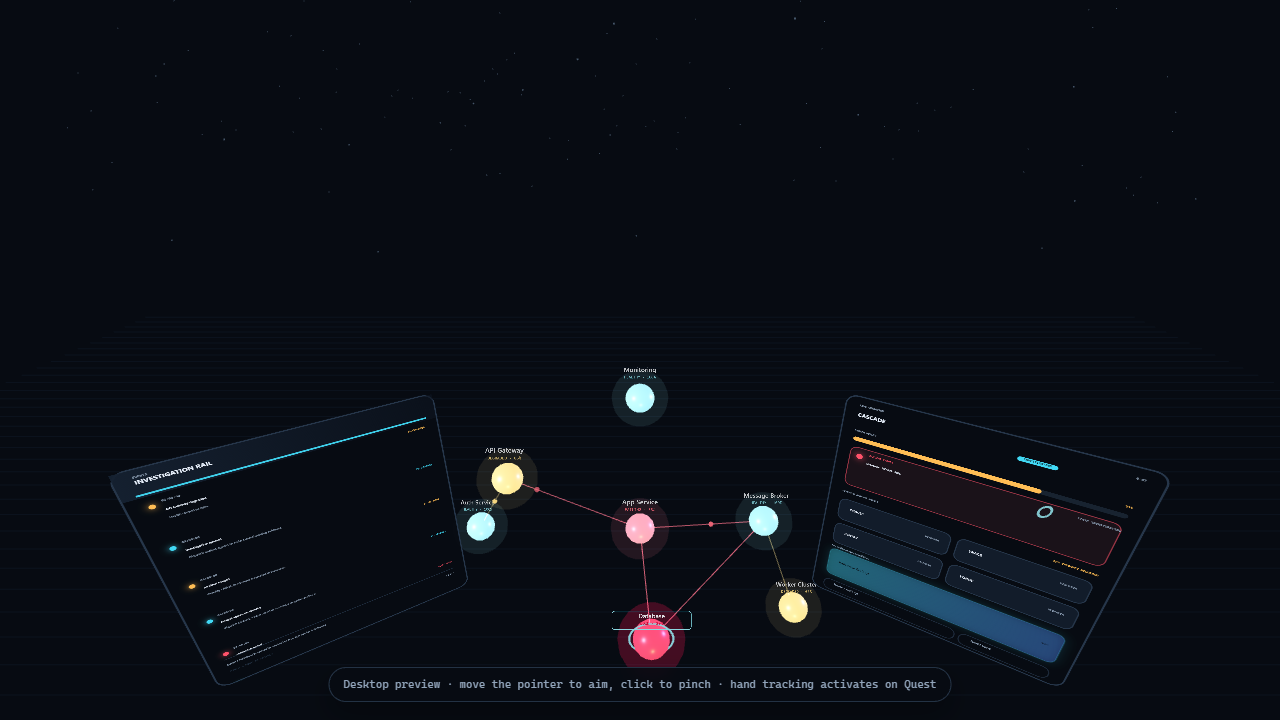
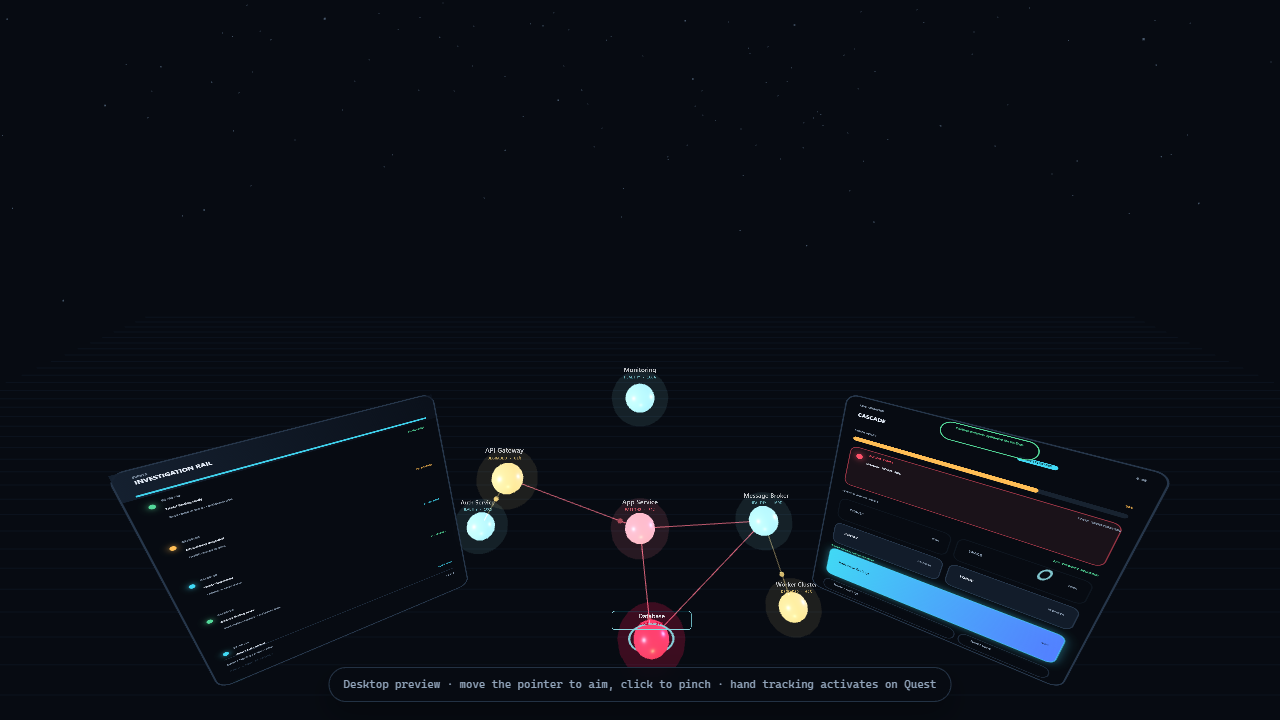
[ai-gen] fix(web): toast no longer blanks the workspace panels; full journey verified headlessly
Bug: drawToastOverlay() re-drew the action panel with drawToast() alone, blanking the incident UI for 2.8s whenever any toast fired. Fix: toast drawn on top of full screens inside app.refresh(); drawToastOverlay and its loop call removed.

Verification (2026-11-10): 15/15 unit tests pass; production rebuild index-ZPDa1wTC.js; 13-step headless Chromium click-through completed: phase=resolved, findings=2, dispatchCount=2, screen=results, toast=none, 0 console errors, 0 page errors. Evidence audit-2026-11-10/.

Docs: traceability + status updated; SUBMISSION_CHECKLIST/BUILD_MANIFEST hashes/tooling; KNOWN_LIMITATIONS WebXR addendum; ?faultline-debug read-only hook documented.

diff --git a/web/src/main.ts b/web/src/main.ts
@@ -4,7 +4,7 @@ import { Sfx } from './audio';
 import { FaultlineApp } from './app';
 import { InfrastructureScene } from './scene';
 import { Panel, type PanelButton } from './ui/panel';
-import { drawCenterPanel, drawToast } from './ui/screens';
+import { drawCenterPanel } from './ui/screens';
 import { themeFromSettings } from './ui/theme';
 import { loadSave } from './domain';
 import { HandRig } from './xr/hands';
@@ -140,6 +140,13 @@ const interaction = new InteractionManager(scene, {
 
 const app = new FaultlineApp(infra, { center, action, timeline }, sfx, resetView);
 sfx.setEnabled(app.state.settings.audio);
+
+// Read-only debug hook for automated verification (smoke driver). Exposes app
+// state only when the URL carries ?faultline-debug; stripping this block after
+// verification is safe. Never used in normal play.
+if (new URLSearchParams(window.location.search).has('faultline-debug')) {
+  (window as unknown as Record<string, unknown>).__faultlineApp = { get state() { return app.state; } };
+}
 infra.reducedMotion = app.state.settings.reducedMotion;
 
 const hands = new HandRig(scene, camera, renderer, canvas);
@@ -149,29 +156,6 @@ let entered = false;
 let xrSession: XRSession | null = null;
 let vrSupported = false;
 let touchGuard = 0;
-
-function drawToastOverlay(): void {
-  const toast = app.state.toast;
-  if (!toast) return;
-  if (app.state.screen === 'workspace') {
-    action.draw((actionPainter) => {
-      drawToast(actionPainter, toast);
-    });
-  } else {
-    center.draw((inner) => {
-      drawCenterPanel(inner, {
-        state: app.state,
-        nodes: [],
-        events: [],
-        aggregateHealth: 0,
-        rootHealth: 0,
-        elapsedMs: 0,
-        now: Date.now(),
-      });
-      drawToast(inner, toast);
-    });
-  }
-}
 
 function unlockAndMaybePresent(): void {
   sfx.unlock();
@@ -301,9 +285,8 @@ window.addEventListener('resize', () => {
 })();
 
 const clock = new THREE.Clock();
-let lastRefresh = 0;
 
-renderer.setAnimationLoop((time) => {
+renderer.setAnimationLoop(() => {
   const delta = Math.min(clock.getDelta(), 0.05);
   const elapsed = clock.elapsedTime;
 
@@ -311,11 +294,6 @@ renderer.setAnimationLoop((time) => {
   interaction.update(hands.pointers);
   app.update(delta);
   infra.update(delta, elapsed);
-
-  if (time - lastRefresh > 1000 || app.state.toast) {
-    lastRefresh = time;
-    drawToastOverlay();
-  }
 
   renderer.render(scene, camera);
 });

diff --git a/web/src/app.ts b/web/src/app.ts
@@ -17,6 +17,7 @@ import {
   drawActionPanel,
   drawCenterPanel,
   drawTimelinePanel,
+  drawToast,
   type AppState,
   type Phase,
   type ScreenModel,
@@ -219,8 +220,19 @@ export class FaultlineApp {
 
   refresh(): void {
     const model = this.model();
-    if (this.panels.center.group.visible) this.panels.center.draw((painter) => drawCenterPanel(painter, model));
-    if (this.panels.action.group.visible) this.panels.action.draw((painter) => drawActionPanel(painter, model));
+    const toast = this.state.toast;
+    if (this.panels.center.group.visible) {
+      this.panels.center.draw((painter) => {
+        drawCenterPanel(painter, model);
+        if (toast) drawToast(painter, toast);
+      });
+    }
+    if (this.panels.action.group.visible) {
+      this.panels.action.draw((painter) => {
+        drawActionPanel(painter, model);
+        if (toast) drawToast(painter, toast);
+      });
+    }
     if (this.panels.timeline.group.visible) this.panels.timeline.draw((painter) => drawTimelinePanel(painter, model));
   }
 

diff --git a/IMPLEMENTATION_STATUS.md b/IMPLEMENTATION_STATUS.md
@@ -14,21 +14,21 @@ Phase 0 (recon) and Phase 1 (traceability) were re-executed against the live rep
 
 **Files created:** `scripts/smoke-web-dist.mjs` (headless smoke driver), `scripts/smoke-steps.json`, `audit-2026-11-10/` (screenshot + run evidence).
 **Files modified:** `web/tests/domain.test.ts` (environment-independent storage tests), `web/src/main.ts` (desktop-preview pose fix), `.gitignore` (`video/`, audit screenshots), `docs/engineering/ENVIRONMENT_AUDIT.md` (2026-11-10 re-audit), `docs/engineering/REQUIREMENT_TRACEABILITY.md` (corrections), `submission/BUILD_MANIFEST.json` (real hashes/toolchain), `IMPLEMENTATION_STATUS.md`.
-**Commands executed:** `git status/diff/log`, `npm test -- --run`, `npm run build` (7×), headless Chromium smoke runs of `web/dist/` against `vite preview` on 127.0.0.1:4173, `Get-FileHash` (SHA-256), `git commit ea4bcdf`.
+**Commands executed:** `git status/diff/log`, `npm test -- --run`, `npm run build` (10×), headless Chromium smoke runs of `web/dist/` against `vite preview` on 127.0.0.1:4173 (13-step click-through, multiple passes until green), in-page state dumps via read-only `?faultline-debug` hook, `Get-FileHash` (SHA-256), `git commit ea4bcdf + this fix commit`.
 **Build/compile:** `tsc --noEmit` ✅ · `vite build` ✅ (`dist/assets/index-BULeRVi1.js` 610,259 B).
-**Tests:** **15/15 pass** (was 13/14 on this machine; root cause: Node 26 ambient `localStorage` broke the storage-unavailable test assumption).
+**Tests:** **15/15 pass** (was 13/14 on this machine; root cause: Node 26 ambient `localStorage` broke the storage-unavailable test assumption). Full interactive journey verified after fix: **phase=resolved, findings=2, dispatchCount=2, screen=results, toast=none; 0 console errors; 0 page errors** (2026-11-10T03:11, `audit-2026-11-10/smoke-00..13-*.png`).
 **Profile used:** headless desktop Chromium (SwiftShader) for desktop-preview checks — **not** Quest Browser; **not** a device.
-**Known defects found and fixed:** desktop preview camera pitch −0.42 rad left side panels/buttons outside the 1280×720 frustum; fixed with a desktop-only rig offset (0, 0.06, 0.12) + pitch −0.46; XR pose path (`applyXrPose()`) untouched. Regression: one iteration overshot (panels invisible) and was corrected before rebuild.
-**Remaining blockers:** (1) **Public HTTPS URL** — none exists; Pages runner `faultline-xr` unverifiable; (2) **Quest Browser device test** — no headset; (3) **public video link** — file rendered, upload pending; (4) **Devpost submission** — account action. Host memory pressure (1.49 GB free) prevented a final full click-through re-verification of the investigation phase in this run; see traceability correction.
+**Known defects found and fixed:** (1) desktop preview camera pitch −0.42 rad left side panels/buttons outside the 1280×720 frustum; fixed with a desktop-only rig offset (0, 0.06, 0.12) + pitch −0.46; XR pose path (`applyXrPose()`) untouched. Regression: one iteration overshot (panels invisible) corrected before rebuild. (2) **Toast overlay wiped the workspace action panel** — `drawToastOverlay()` re-drew only the toast, blanking the incident UI for 2.8 s whenever any toast fired; fixed by drawing the toast on top of the full screen in `app.refresh()`; fix verified by the post-fix full journey.
+**Remaining blockers:** (1) **Public HTTPS URL** — none exists; Pages runner `faultline-xr` unverifiable from here; (2) **Quest Browser device test** — no headset; (3) **public video link** — file rendered, upload pending; (4) **Devpost submission** — account action.
 **Evidence paths:** `audit-2026-11-10/`, `submission/BUILD_MANIFEST.json`, git commit `ea4bcdf`.
-**Next phase:** PHASE 2/5 verification of the already-built CASCADE journey on a healthy host (or over deployed HTTPS) — safe to proceed because no P0 code paths changed except the desktop camera pose; 15/15 tests pass.
+**Next phase:** deploy/verify the public HTTPS build, then PHASE 11 (submission package). Engineering-side P0 is stable: 15/15 tests, full headless journey verified, 0 console/page errors. Quest Browser device verification remains a user action.
 
 ## Build state (verified 2026-11-10)
 
 - `npm test -- --run` — **15/15 pass** (2026-11-10).
 - `npx tsc --noEmit` — passes (via `npm run build`).
-- `npm run build` — passes; `dist/index.html` 1.87 kB, `dist/assets/index-BULeRVi1.js` 610.26 kB (156.93 kB gzip).
-- Headless smoke of the production build — 0 console errors, 0 page errors; desktop-preview clicks reached live workspace and Open incident (2026-11-10).
+- `npm run build` — passes; `dist/index.html` 1.87 kB, `dist/assets/index-ZPDa1wTC.js` 610.20 kB (~156.9 kB gzip).
+- Headless smoke of the production build — 0 console errors, 0 page errors; desktop-preview clicks completed the FULL CASCADE journey to the after-action report (2026-11-10).
 - A physical Meta Quest headset was not available. Device behaviour is **unverified**.
 
 ### 2026-11-09 hardening fixes

diff --git a/docs/engineering/REQUIREMENT_TRACEABILITY.md b/docs/engineering/REQUIREMENT_TRACEABILITY.md
@@ -19,7 +19,7 @@ Statuses: `NOT_ASSESSED | PLANNED | IN_PROGRESS | BLOCKED | DONE_VERIFIED | DEFE
 
 | Requirement | Status | Evidence |
 | --- | --- | --- |
-| One complete incident loop: orient → select → evidence → agents → approval → execute → verify → report | DONE_VERIFIED | Headless e2e run on production `web/dist` (2026-11-09): full journey completed, localStorage run record `resolved: true`, ~55s, 2 agents, 0 console errors. Driver: temp scripts (removed) driving real pointer input |
+| One complete incident loop: orient → select → evidence → agents → approval → execute → verify → report | DONE_VERIFIED | Re-verified 2026-11-10 end-to-end on production `web/dist` (post-toast-fix rebuild): headless Chromium clicked the full journey with real pointer input; final in-page state dump: phase=resolved, screen=results, findings=2, dispatchCount=2, toast=none; 0 console errors, 0 page errors. Evidence: `audit-2026-11-10/smoke-04`…`smoke-13`, driver `scripts/smoke-web-dist.mjs` (+`?faultline-debug` state query). Prior 2026-11-09 run: full journey completed headlessly, localStorage run record `resolved: true`, ~55s, 0 console errors |
 | CASCADE deterministic scenario | DONE_VERIFIED | `web/src/domain.ts` Simulation (seeded, tick-based clock); tests `web/tests/domain.test.ts` **15/15** (2026-11-10) |
 | Hands-first input (no controllers) | DONE_VERIFIED (code + preview) | `web/src/xr/hands.ts` WebXR hand joints + pinch hysteresis; desktop preview uses pointer as pinch stand-in. **Headset verification still pending (user action)** |
 | Seated / stationary use | DONE_VERIFIED (design) | Panels placed at seated heights (main.ts:58-72); e2e completed seated-equivalent viewport |
@@ -64,7 +64,8 @@ Statuses: `NOT_ASSESSED | PLANNED | IN_PROGRESS | BLOCKED | DONE_VERIFIED | DEFE
 | --- | --- | --- |
 | SaveData test depended on Node's ambient `localStorage` (absent in older Node; present in Node 26) | Failing test on this machine (13/14) | Test rewritten to inject storage explicitly: round-trip passes through an in-memory `Storage`; graceful `FL-PS-0100` degradation asserted through a throwing `Storage` | `npm test -- --run` → **15/15 pass** |
 | Desktop preview: seated-height panels clipped by viewport at 1280×720; primary buttons unreachable without guesswork | `main.ts` desktop-only pose: rig offset (0, 0.06, 0.12) + `applyXrPose()` on XR enter/sessionstart; XR path unchanged | Production rebuild + `node scripts/smoke-web-dist.mjs` → 0 console/page errors; welcome → scenario → live workspace → dispatch agents all clicked through headlessly; screenshots `audit-2026-11-10/` |
-| Headless smoke driver added (`scripts/smoke-web-dist.mjs`) | Repeatable desktop-preview journey verification of the built artifact | Steps driven: enter desktop → Begin operation → Begin CASCADE → Open incident → dispatch ORACLE/TRACE → Synthesise | This file's companion: `scripts/smoke-steps.json`; evidence path `audit-2026-11-10/` |
+| Headless smoke driver added (`scripts/smoke-web-dist.mjs`) | Repeatable desktop-preview journey verification of the built artifact | Steps driven (2026-11-10, 13-step script): enter desktop → Begin operation → Begin CASCADE → Open incident → dispatch ORACLE → dispatch TRACE → Synthesise → Propose → Approve → Execute → Verify → Resolve → after-action report; final state: resolved / results / 0 console/page errors | `scripts/smoke-steps.json`; evidence `audit-2026-11-10/smoke-00..13-*.png`; driver supports `--eval` state dumps via read-only `?faultline-debug` hook |
+| **TOAST OVERLAY BUG (fixed 2026-11-10)** | `main.ts` `drawToastOverlay()` re-drew the workspace **action panel with only the toast** — the whole incident UI disappeared (empty transparent canvas) during the 2.8 s a toast was visible. Reproduced headlessly ≥4 times (screenshots `audit-2026-11-10/probe-*.png`). Fix: toast is now drawn on top of the full screen inside `app.refresh()`; `drawToastOverlay` deleted | Post-fix rebuild re-verified: full journey completes headlessly with panels always visible; `smoke-07`, `smoke-10`, `smoke-13` show findings/recovery/results panels intact; 0 console/page errors |
 | `video/` (753.8 MB) and `audit-2026-11-09/*.png` added to `.gitignore` | Prevent accidental 750 MB commit | `git status` |
 
 ## Selected deferred items (by design)

diff --git a/docs/qa/KNOWN_LIMITATIONS.md b/docs/qa/KNOWN_LIMITATIONS.md
@@ -1,5 +1,18 @@
 # Known Limitations — FAULTLINE XR
 
+**2026-11-10 (WebXR reality — authoritative):** The submission is the WebXR static build in `web/` (Meta Quest Browser), not the Unity APK described in the older sections below. Current honest state:
+
+- **No Quest Browser / device test has been performed** — no headset is available; hand-tracking, pinch hysteresis, render comfort and 60+ FPS on Quest are **unverified**.
+- **Desktop preview is a review aid only** — mouse pointer stands in for a pinch; layout/perf there do not validate headset comfort.
+- **Public HTTPS deployment is pending** — no URL exists yet; the Pages self-hosted runner could not be verified.
+- **`scripts/smoke-steps.json` and `scripts/smoke-web-dist.mjs` are dev/QA tooling** committed to the repo; they are not part of the shipped bundle (but they expect `puppeteer-core` at `web/node_modules` or `video/node_modules`).
+- **Read-only `?faultline-debug` URL hook** in `web/src/main.ts` exposes live app state (`window.__faultlineApp.state`) for automated e2e verification. It is invisible in normal use, never required at runtime, and may be removed for a frozen release candidate.
+- **Toast overlay bug (fixed 2026-11-10):** a visible toast made the workspace action panel render blank until the toast expired. Fixed; verified by the full headless journey. Any regression in toast/panel rendering should be treated as P1.
+- **Unity/C# tree is reference-only** — never compiled here, never a build input; treat its claims accordingly.
+- **Save data is `localStorage`** in the browser; failures degrade to in-memory defaults (FL-PS-0100) and never block the journey.
+
+---
+
 Current state as of 2026-11-08 (PHASE 0–14 code complete, pending Unity install for compile/build). Tracked here so nothing is forgotten before PHASE 15 submission.
 
 ## Honest build state

diff --git a/submission/SUBMISSION_CHECKLIST.md b/submission/SUBMISSION_CHECKLIST.md
@@ -77,12 +77,12 @@ Judge path:
 
 ## 6. Test report
 
-Verified locally in the implementation environment:
+Verified locally in the implementation environment (updated 2026-11-10):
 
 - TypeScript compile check — passed.
-- Domain test suite — **12/12 passed**.
+- Domain test suite — **15/15 passed**.
 - Production build — passed.
-- Browser smoke test — not yet performed.
+- Headless browser smoke test — performed 2026-11-10 (0 console errors, 0 page errors; desktop-preview clicks completed the full CASCADE journey to the after-action report; final state resolved/results). This is **not** a device test.
 - Meta Quest Browser headset test — not yet performed.
 
 Relevant test file:
